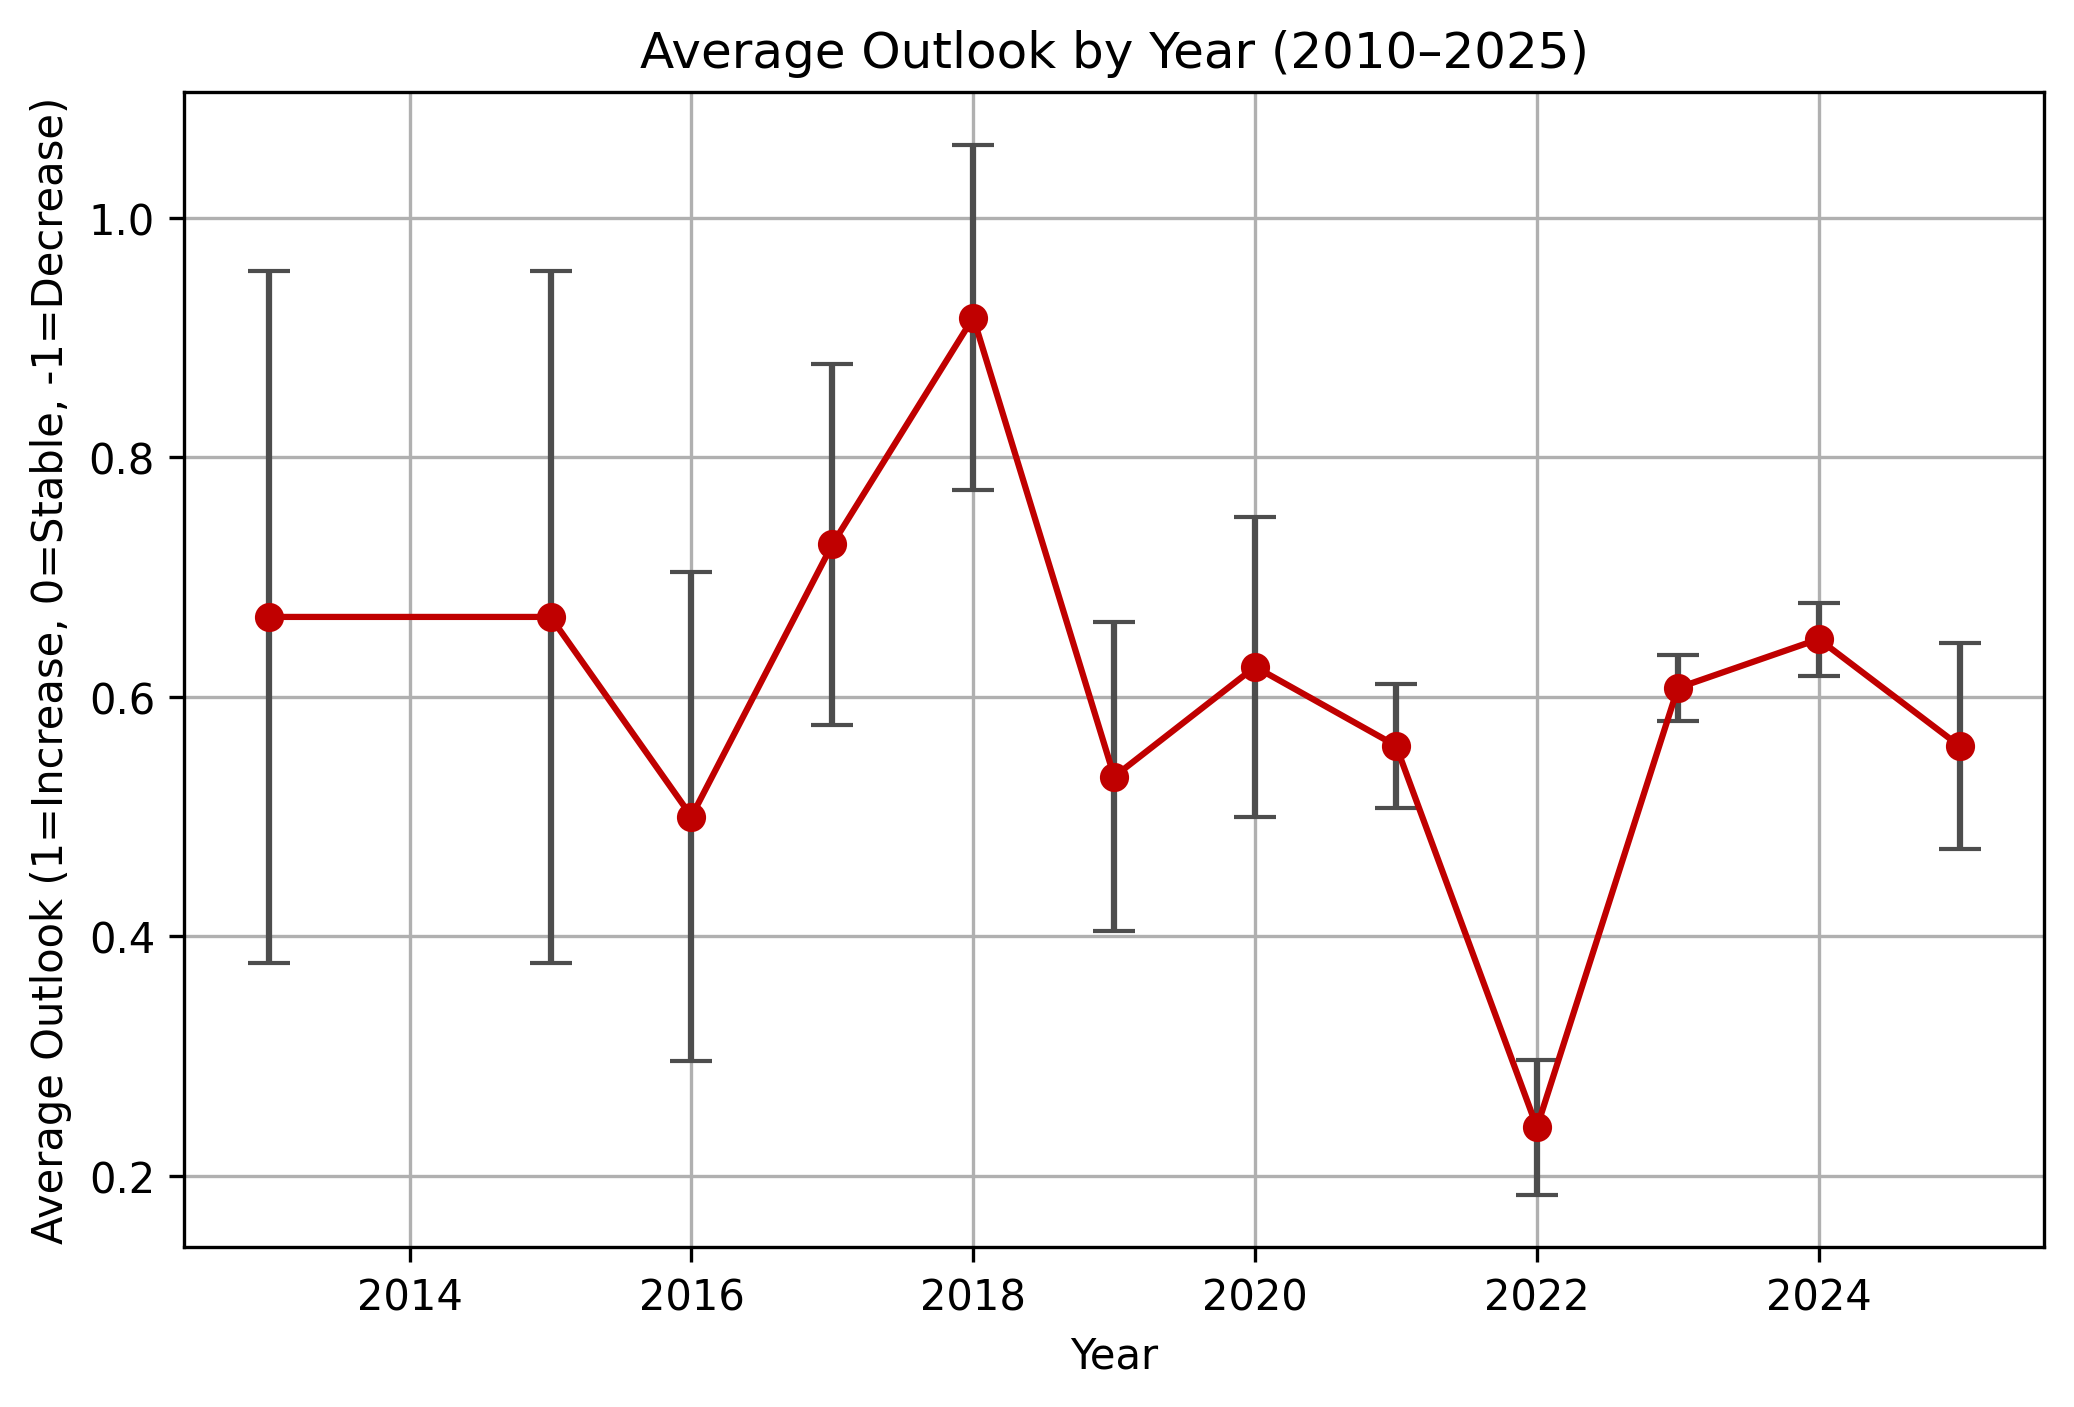
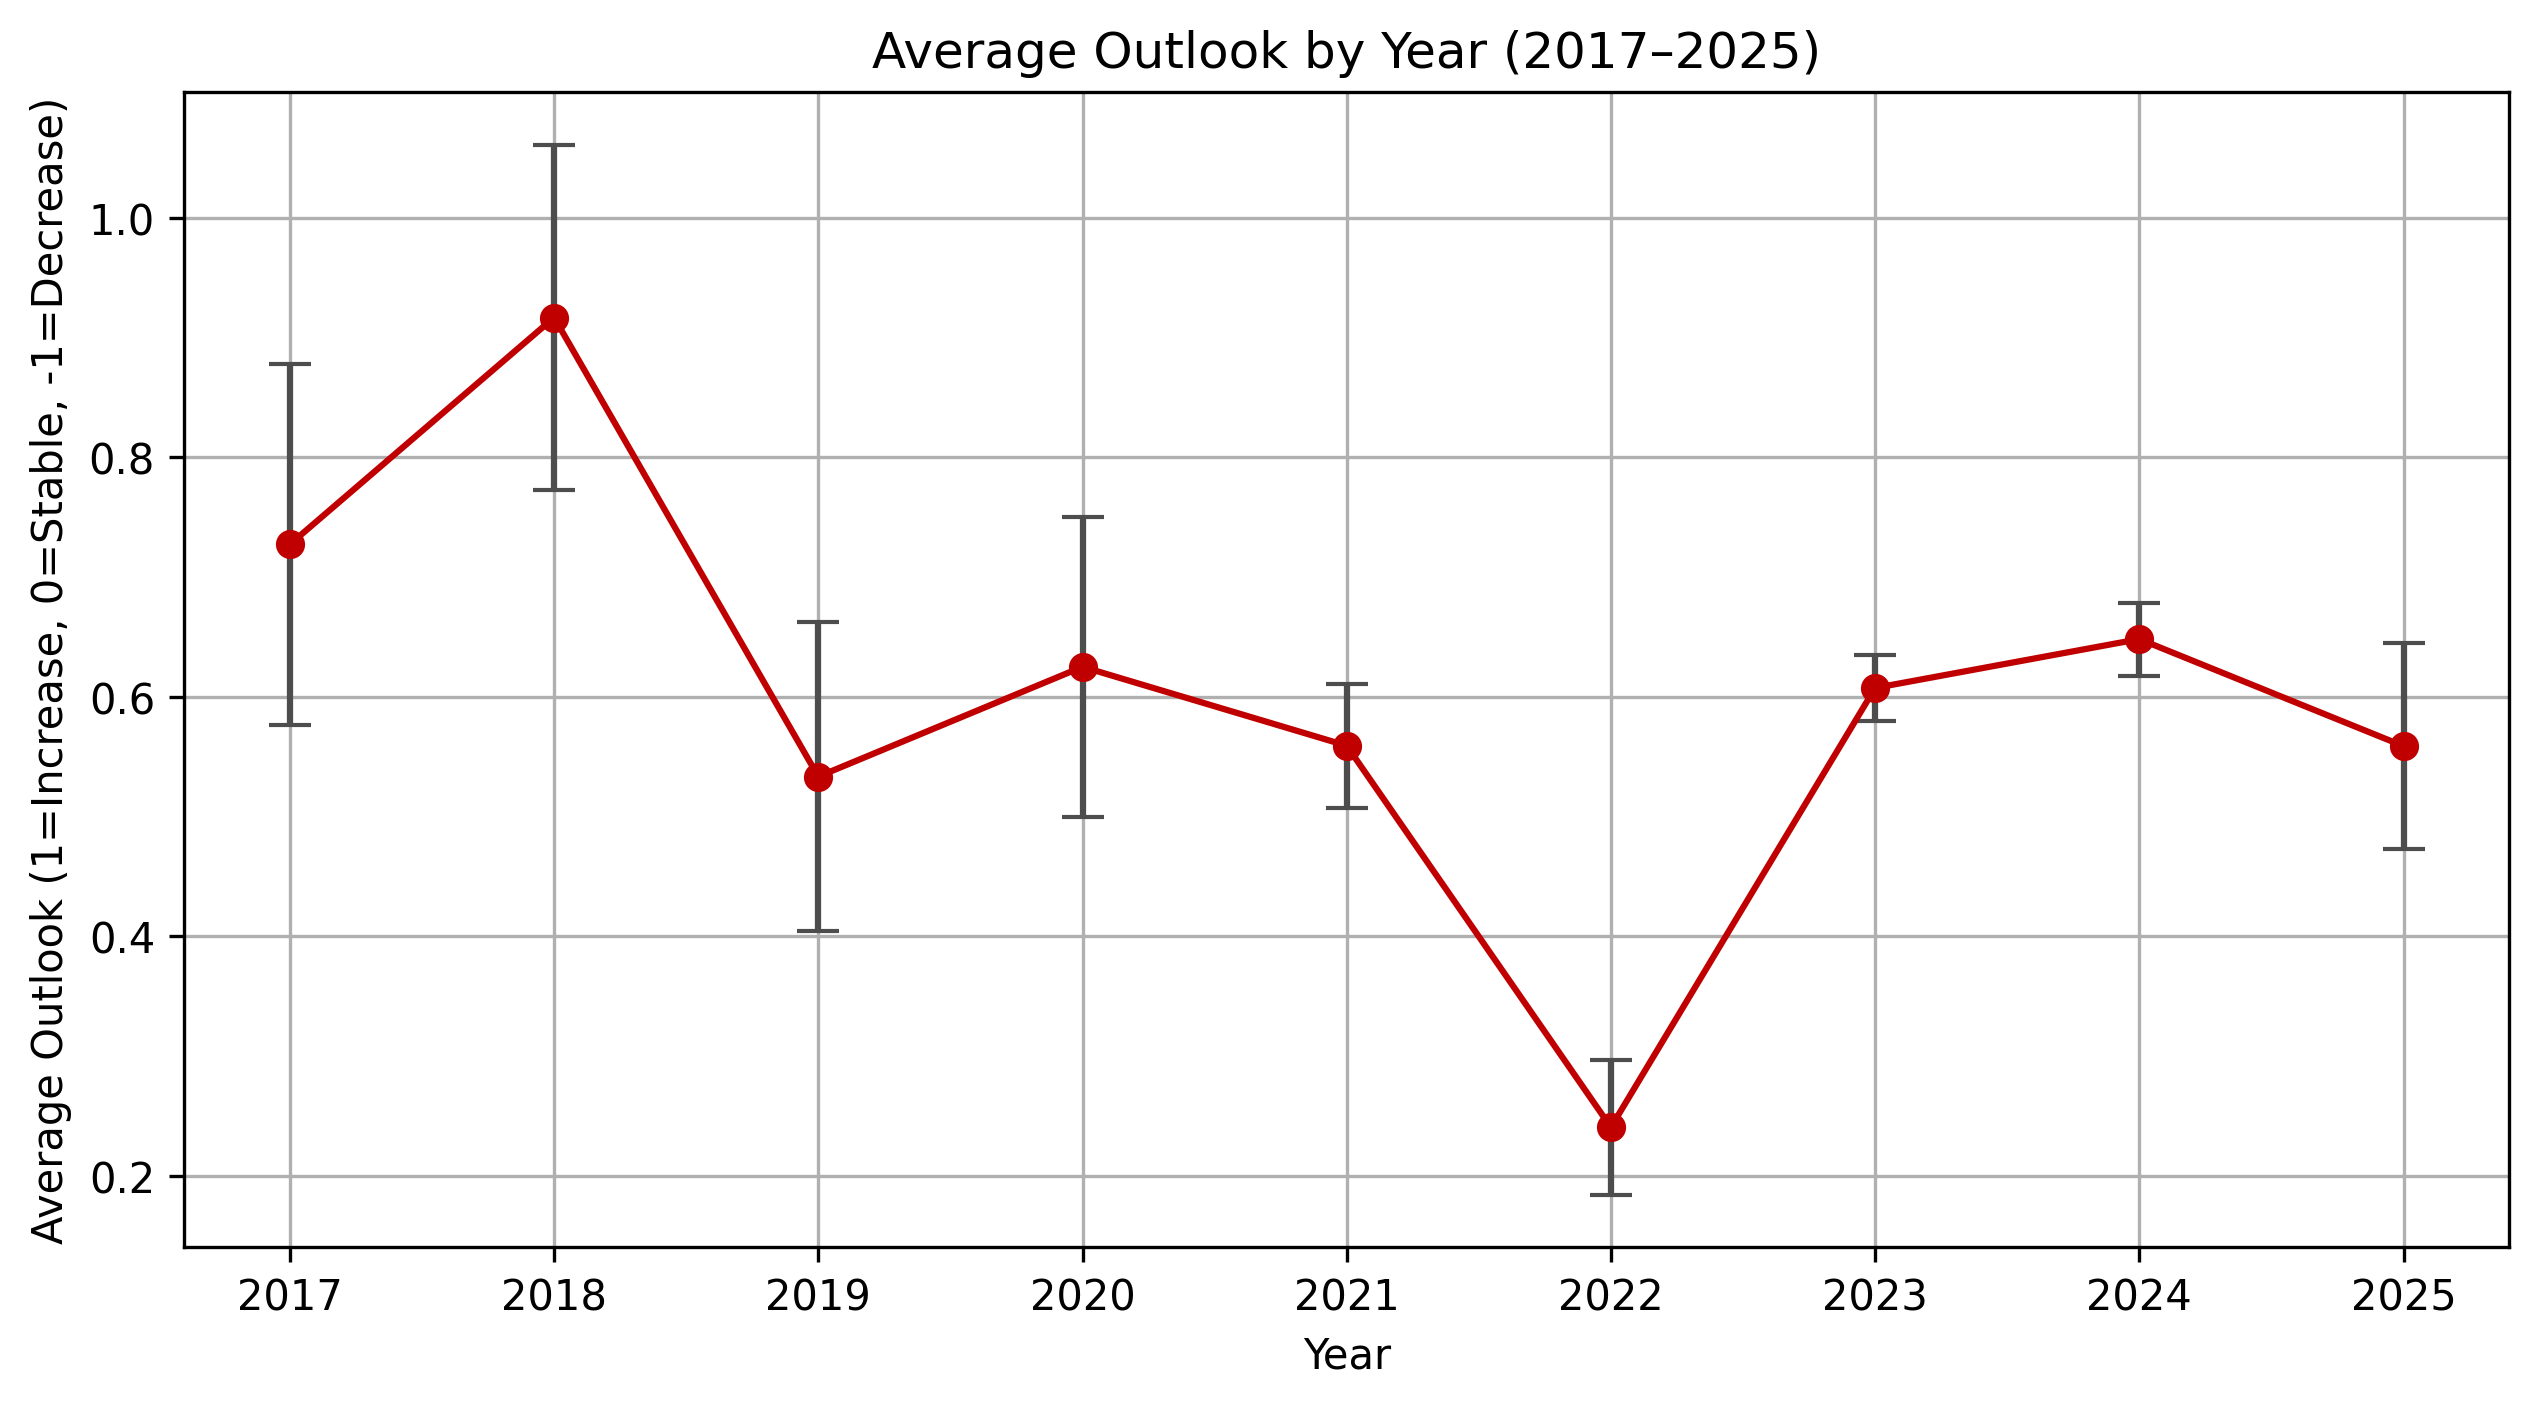
new developments

diff --git a/Finance/Thesis/B_analysis_functions.py b/Finance/Thesis/B_analysis_functions.py
@@ -85,8 +85,26 @@ def clean_outlooks_df(df: pd.DataFrame) -> pd.DataFrame:
     return df
 
 
-def load_sentiment(path, start_year, end_year):
-    """Load and aggregate sentiment by year, returning mean, count, and error bands."""
+def load_sentiment(path, start_year, end_year, freq="yearly")->pd.DataFrame:
+    """
+    Load and aggregate sentiment by year or quarter.
+
+    Parameters
+    ----------
+    path : str
+        Path to Excel file with 'report_date' and 'outlook_num'.
+    start_year, end_year : int
+        Start and end year for filtering.
+    freq : {"yearly", "quarterly"}
+        Aggregation frequency.
+
+    Returns
+    -------
+    mean : pd.Series
+        Mean sentiment per period.
+    errors : pd.Series
+        Error bands per period (0.5 / sqrt(n)).
+    """
     df = pd.read_excel(path)
     df["date_dt"] = pd.to_datetime(df["report_date"], format="%Y%m%d", errors="coerce")
     df = df[df["date_dt"].notna()]
@@ -94,13 +112,20 @@ def load_sentiment(path, start_year, end_year):
     df["year"] = df["date_dt"].dt.year
     df = df[(df["year"] >= start_year) & (df["year"] <= end_year)]
 
-    grouped = df.groupby("year")["outlook_num"].agg(["mean", "count"])
-    mean = grouped["mean"].reindex(range(start_year, end_year + 1))
-    counts = grouped["count"].reindex(range(start_year, end_year + 1))
+    if freq == "yearly":
+        df["period"] = df["year"]
 
-    # Errors = 1/sqrt(n), shaded area
-    errors = 0.5 / np.sqrt(counts.replace(0, np.nan))
-    return mean, errors
+    elif freq == "quarterly":
+        df["quarter"] = df["date_dt"].dt.quarter
+        df["period"] = df["year"] + (df["quarter"] - 1) / 4
+
+    else:
+        raise ValueError("freq must be 'yearly' or 'quarterly'")
+
+    grouped = df.groupby("period")["outlook_num"].agg(["mean", "count"])
+    grouped["errors"] =0.5 / np.sqrt(grouped["count"].replace(0, np.nan))
+
+    return grouped
 
 
 def load_pe_irr(path, years):
@@ -114,16 +139,74 @@ def load_pe_irr(path, years):
     return pe_annual.reindex(years)
 
 
-def load_gp_cashflows(filepath, fund):
-    df = pd.read_excel(filepath)
+def load_gp_cashflows(cashflow_path, fund, start_year=None, end_year=None, freq="yearly") -> pd.DataFrame:
+    """
+    Load GP cashflows and aggregate by year or quarter.-
+
+    Parameters
+    ----------
+    cashflow_path : str
+        Path to Excel file with GP cashflows.
+    fund : str
+        Fund manager name to filter.
+    start_year, end_year : int, optional
+        Restrict range of years.
+    freq : {"yearly", "quarterly"}
+        Aggregation frequency.
+
+    Returns
+    -------
+    pd.DataFrame
+        DataFrame with net_cf, dpi, abs_change_net_cf, rel_change_net_cf
+    """
+    df = pd.read_excel(cashflow_path)
     df = df[(df["TRANSACTION TYPE"] == "Distribution") & (df["FUND MANAGER"] == fund)]
 
     df["date_dt"] = pd.to_datetime(df["TRANSACTION DATE"], errors="coerce")
+    df = df[df["date_dt"].notna()]
+
     df["year"] = df["date_dt"].dt.year
+    if start_year and end_year:
+        df = df[(df["year"] >= start_year) & (df["year"] <= end_year)]
 
-    net_cf = df.groupby("year")["NET CASHFLOW"].sum()
-    dpi = (df["CUMULATIVE DISTRIBUTION"] / df["CUMULATIVE CONTRIBUTION"]).groupby(df["year"]).mean()
-    return net_cf, dpi
+    # ✅ Define period
+    if freq == "yearly":
+        df["period"] = df["year"]
+    elif freq == "quarterly":
+        df["quarter"] = df["date_dt"].dt.quarter
+        df["period"] = df["year"] + (df["quarter"] - 1) / 4
+    else:
+        raise ValueError("freq must be 'yearly' or 'quarterly'")
 
+    # ✅ Aggregate
+    net_cf = df.groupby("period")["NET CASHFLOW"].sum()
+    dpi = (-df["CUMULATIVE DISTRIBUTION"] / df["CUMULATIVE CONTRIBUTION"]).groupby(df["period"]).mean()
+
+    # ✅ Combine into DataFrame
+    out = pd.concat([net_cf.rename("net_cf"), dpi.rename("dpi")], axis=1)
+
+    # ✅ Absolute + relative changes of net_cf
+    out["abs_change_net_cf"] = out["net_cf"].diff()
+    out["rel_change_net_cf"] = out["net_cf"].pct_change()
+
+    return out
+
+
+def interpolate_sentiment_dpi(sentiment_path, cashflow_path, fund, start_year, end_year):
+    """Load and aggregate sentiment by year, returning mean, count, and error bands."""
+    df = pd.read_excel(sentiment_path)
+    df["date_dt"] = pd.to_datetime(df["report_date"], format="%Y%m%d", errors="coerce")
+    df = df[df["date_dt"].notna()]
+
+    df["year"] = df["date_dt"].dt.year
+    df = df[(df["year"] >= start_year) & (df["year"] <= end_year)]
+
+    grouped = df.groupby("year")["outlook_num"].agg(["mean", "count"])
+    mean = grouped["mean"].reindex(range(start_year, end_year + 1))
+    counts = grouped["count"].reindex(range(start_year, end_year + 1))
+
+    # Errors = 1/sqrt(n), shaded area
+    errors = 0.5 / np.sqrt(counts.replace(0, np.nan))
+    return mean, errors
 
 

diff --git a/Finance/Thesis/C_plotting_functions.py b/Finance/Thesis/C_plotting_functions.py
@@ -4,6 +4,7 @@ import numpy as np
 import pandas as pd
 from matplotlib import pyplot as plt
 
+from Finance.Thesis.B_analysis_functions import load_sentiment
 from Finance.Thesis.palette import palette
 
 
@@ -63,59 +64,40 @@ def plot_dual_axis(years, sentiment, errors, secondary_series, secondary_label, 
     plt.show()
 
 
-def plot_avg_outlook_by_year(df: pd.DataFrame,
-                             filename: str,
-                             start_year=2019,
-                             end_year=2025,
-                             output_dir=r"C:\Users\leocr\Projects\Economics\Finance\Thesis\Latex\img"):
+def plot_avg_outlook(path,
+                     filename: str,
+                     start_year=2019,
+                     end_year=2025,
+                     freq ="yearly",
+                     output_dir=r"C:\Users\leocr\Projects\Economics\Finance\Thesis\Latex\img"):
     """
-    Calculates average outlook_num by year (2019–2025), plots it with error bars,
+    Calculates average outlook_num by year or quarter (2019–2025), plots it with error bars,
     and saves to the given filename.
 
     Error bars are inversely proportional to sqrt(n), where n is the number of entries.
     Gaps if <3 entries, but line connects valid points.
     """
 
-    # ✅ Ensure date is datetime
-    df["date_dt"] = pd.to_datetime(df["report_date"], format="%Y%m%d", errors="coerce")
-    df = df[df["date_dt"].notna()]
-
-    # ✅ Extract year and filter range
-    df["year"] = df["date_dt"].dt.year
-    df = df[(df["year"] >= start_year) & (df["year"] <= end_year)]
-
-    # ✅ Compute mean + count per year
-    grouped = df.groupby("year")["outlook_num"].agg(["mean", "count"])
-
-    # ✅ Only keep mean if count >= 3
-    grouped.loc[grouped["count"] < 3, "mean"] = float("nan")
-
-    # ✅ Reindex to full year range
-    years = range(start_year, end_year + 1)
-    avg_by_year = grouped["mean"].reindex(years)
-    counts = grouped["count"].reindex(years)
-
-    # ✅ Define error bars (inverse sqrt of n)
-    errors = 0.5 / np.sqrt(counts.replace(0, np.nan))  # avoid /0
+    grouped = load_sentiment(path,start_year,end_year, freq)
+    avg = grouped["mean"]
+    errors = grouped["errors"]
 
     # ✅ Plot
-    plt.figure(figsize=(8, 5))
+    plt.figure(figsize=(10, 5))
 
-    # Scatter with error bars
-    plt.errorbar(avg_by_year.index, avg_by_year.values,
+    plt.errorbar(avg.index, avg.values,
                  yerr=errors,
                  fmt="o", color=palette["primary_red"], ecolor=palette["dark_gray"], capsize=5)
 
-    # Line only for valid points
-    valid = avg_by_year.dropna()
+    valid = avg.dropna()
     plt.plot(valid.index, valid.values, "-", color=palette["primary_red"])
 
-    plt.title(f"Average Outlook by Year ({start_year}–{end_year})")
-    plt.xlabel("Year")
+    title_freq = "Year" if freq == "yearly" else "Quarter"
+    plt.title(f"Average Outlook by {title_freq} ({start_year}–{end_year})")
+    plt.xlabel(title_freq)
     plt.ylabel("Average Outlook (1=Increase, 0=Stable, -1=Decrease)")
     plt.grid(True)
 
-    # ✅ Save to file
     os.makedirs(output_dir, exist_ok=True)
     filepath = os.path.join(output_dir, filename)
     plt.savefig(filepath, dpi=300, bbox_inches="tight")

diff --git a/Finance/Thesis/04_2_sentiment_vs_distributions.py b/Finance/Thesis/04_2_sentiment_vs_distributions.py
@@ -3,6 +3,7 @@ from Finance.Thesis.C_plotting_functions import plot_dual_axis
 
 fund_number_name = "21_TPG"
 fund_name = "TPG"
+start_year, end_year = 2018, 2025
 
 # -----------------------------
 # Main
@@ -10,8 +11,16 @@ fund_name = "TPG"
 sentiment_path = rf"C:\Users\leocr\Projects\Economics\Finance\Thesis\files\responses\excel\{fund_number_name}.xlsx"
 gp_path = r"C:\Users\leocr\Projects\Economics\Finance\Thesis\files\GP_cashflows.xlsx"
 
-sentiment, errors = load_sentiment(sentiment_path, start_year=2017, end_year=2025)
-net_cf, dpi = load_gp_cashflows(gp_path, fund=fund_name)
+sentiment_df = load_sentiment(sentiment_path, start_year, end_year, freq='yearly')
+sentiment =sentiment_df["mean"]
+errors = sentiment_df["errors"]
+
+cashflow_df = load_gp_cashflows(gp_path, fund=fund_name, start_year= start_year, end_year= end_year,freq='yearly')
+net_cf = cashflow_df["net_cf"]
+dpi = cashflow_df["dpi"]
+abs_change_net_cf=cashflow_df["abs_change_net_cf"]
+rel_change_net_cf =cashflow_df["rel_change_net_cf"]
+
 
 # -----------------------------
 # Align with 1-year lag in sentiment
@@ -25,4 +34,6 @@ dpi = dpi.reindex(years)
 
 # plots
 plot_dual_axis(years, sentiment_lagged, errors_lagged, net_cf, "Net Cashflow", f"Lagged Sentiment vs Net Cashflow ({fund_name})", fund_number_name=fund_number_name)
+plot_dual_axis(years, sentiment_lagged, errors_lagged, dpi, "DPI", f"Lagged Sentiment vs DPI ({fund_name})", fund_number_name=fund_number_name)
+plot_dual_axis(years, sentiment_lagged, errors_lagged, net_cf, "Absolute Change in Net Cashflow", f"Lagged Sentiment vs Absolute Change in Net Cashflow ({fund_name})", fund_number_name=fund_number_name)
 plot_dual_axis(years, sentiment_lagged, errors_lagged, dpi, "DPI", f"Lagged Sentiment vs DPI ({fund_name})", fund_number_name=fund_number_name)

diff --git a/Finance/Thesis/04_1_sentiment_vs_Irr.py b/Finance/Thesis/04_1_sentiment_vs_Irr.py
@@ -5,12 +5,12 @@ from Finance.Thesis.C_plotting_functions import plot_sentiment_vs_irr
 start_year, end_year = 2018, 2025
 years = range(start_year, end_year + 1)
 fund_number_name = "22_TCG"
+sentiment_path = rf"C:\Users\leocr\Projects\Economics\Finance\Thesis\files\responses\excel\{fund_number_name}.xlsx"
 
 # --- Main ---
-sentiment, errors = load_sentiment(
-    rf"C:\Users\leocr\Projects\Economics\Finance\Thesis\files\responses\excel\{fund_number_name}.xlsx",
-    start_year, end_year
-)
+sentiment_df = load_sentiment(sentiment_path, start_year, end_year)
+sentiment =sentiment_df["mean"]
+errors = sentiment_df["errors"]
 
 pe_irr = load_pe_irr(
     r"D:\Files\OneDrive - University of Luxembourg\Thesis\PreqinDownloads\Excels\Horizon_IRR.xlsx",

diff --git a/Finance/Thesis/01_make_summaries.py b/Finance/Thesis/01_make_summaries.py
@@ -1,11 +1,11 @@
 import os
 import random
 
-from Finance.Thesis.functions import make_summary
+from Finance.Thesis.A_processing_functions import make_summary
 
 # Paths
-source_dir = r"D:\Files\OneDrive - University of Luxembourg\Thesis\PreqinDownloads\GPs\22_TCG"
-summary_dir = r"C:\Users\leocr\Projects\Economics\Finance\Thesis\files/responses/summaries_22_TCG"
+source_dir = r"D:\Files\OneDrive - University of Luxembourg\Thesis\PreqinDownloads\GPs\23_AGM"
+summary_dir = r"C:\Users\leocr\Projects\Economics\Finance\Thesis\files/responses/summaries_23_AGM"
 
 # Ensure output directory exists
 os.makedirs(summary_dir, exist_ok=True)

diff --git a/Finance/Thesis/05_regressions.py b/Finance/Thesis/05_regressions.py
@@ -30,12 +30,12 @@ start_year, end_year = 2015, 2025
 years = range(start_year, end_year + 1)
 
 
-sentiment, errors = load_sentiment(
+sentiment_df = load_sentiment(
     rf"C:\Users\leocr\Projects\Economics\Finance\Thesis\files\responses\excel\{fund_number_name}.xlsx",
-    start_year, end_year
+    start_year, end_year, freq="yearly"
 )
-weights = 1 / (errors ** 2)
-weights.name = "weights"
+sentiment =sentiment_df["mean"]
+weights = sentiment_df["counts"]
 
 pe_irr = load_pe_irr(
     r"D:\Files\OneDrive - University of Luxembourg\Thesis\PreqinDownloads\Excels\Horizon_IRR.xlsx",

diff --git a/Finance/Thesis/04_0_sentiment.py b/Finance/Thesis/04_0_sentiment.py
@@ -1,9 +1,7 @@
-import pandas as pd
+from Finance.Thesis.C_plotting_functions import plot_avg_outlook
 
-from Finance.Thesis.C_plotting_functions import plot_avg_outlook_by_year
-
-fund_number_name = "22_TCG"
+fund_number_name = "21_TPG"
 
 excel_path = rf"C:\Users\leocr\Projects\Economics\Finance/Thesis/files/responses\excel\{fund_number_name}.xlsx"
-df = pd.read_excel(excel_path)
-plot_avg_outlook_by_year(df, f"{fund_number_name}.png", 2017,2025)
+
+plot_avg_outlook(excel_path, f"{fund_number_name}.png", 2017,2025, freq="yearly")

diff --git a/Finance/Thesis/prompts.py b/Finance/Thesis/prompts.py
@@ -13,7 +13,7 @@ variable_of_interest = "the outlook on capital distributions"
 
 period = "year following the report date"
 
-fund_manager = "The Carlyle Group"
+fund_manager = "Apollo Global Management"
 
 def build_summary_prompt(text):
     """
